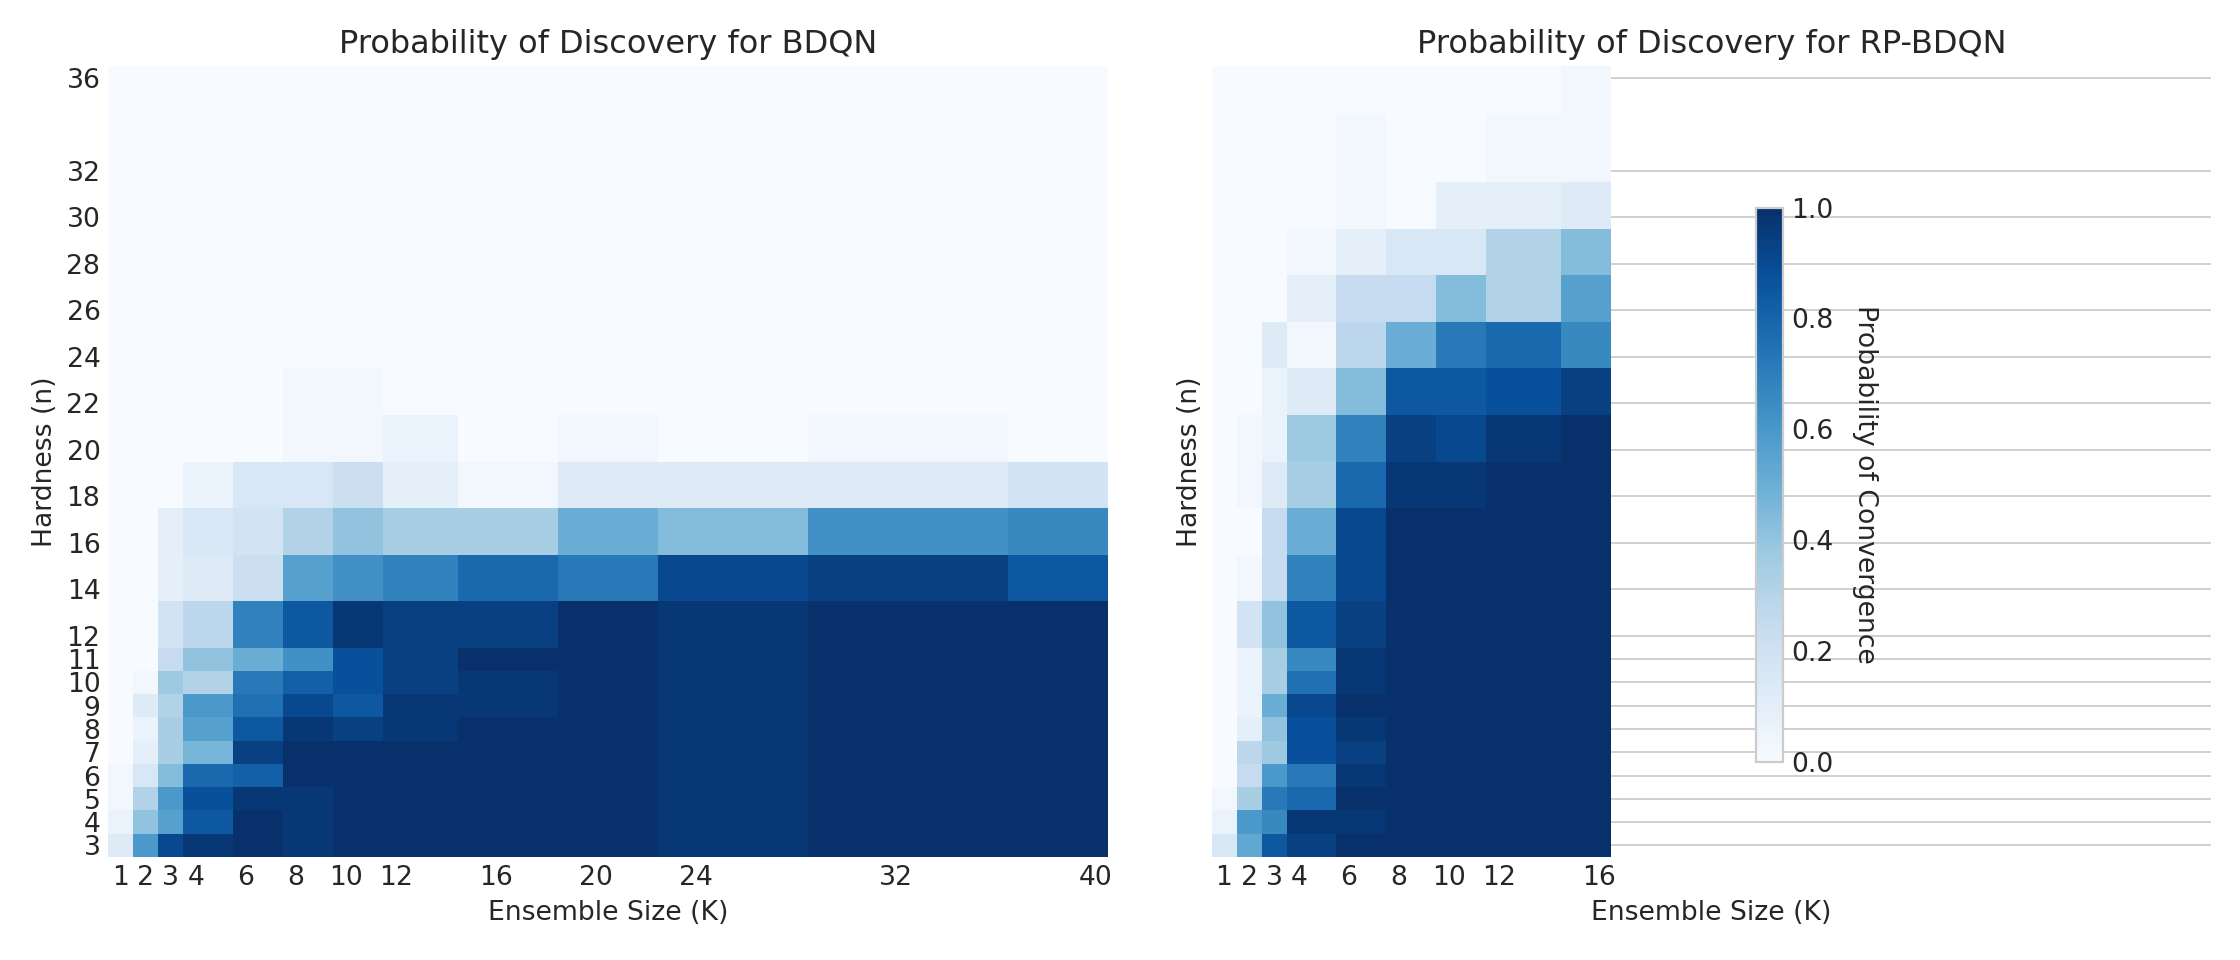
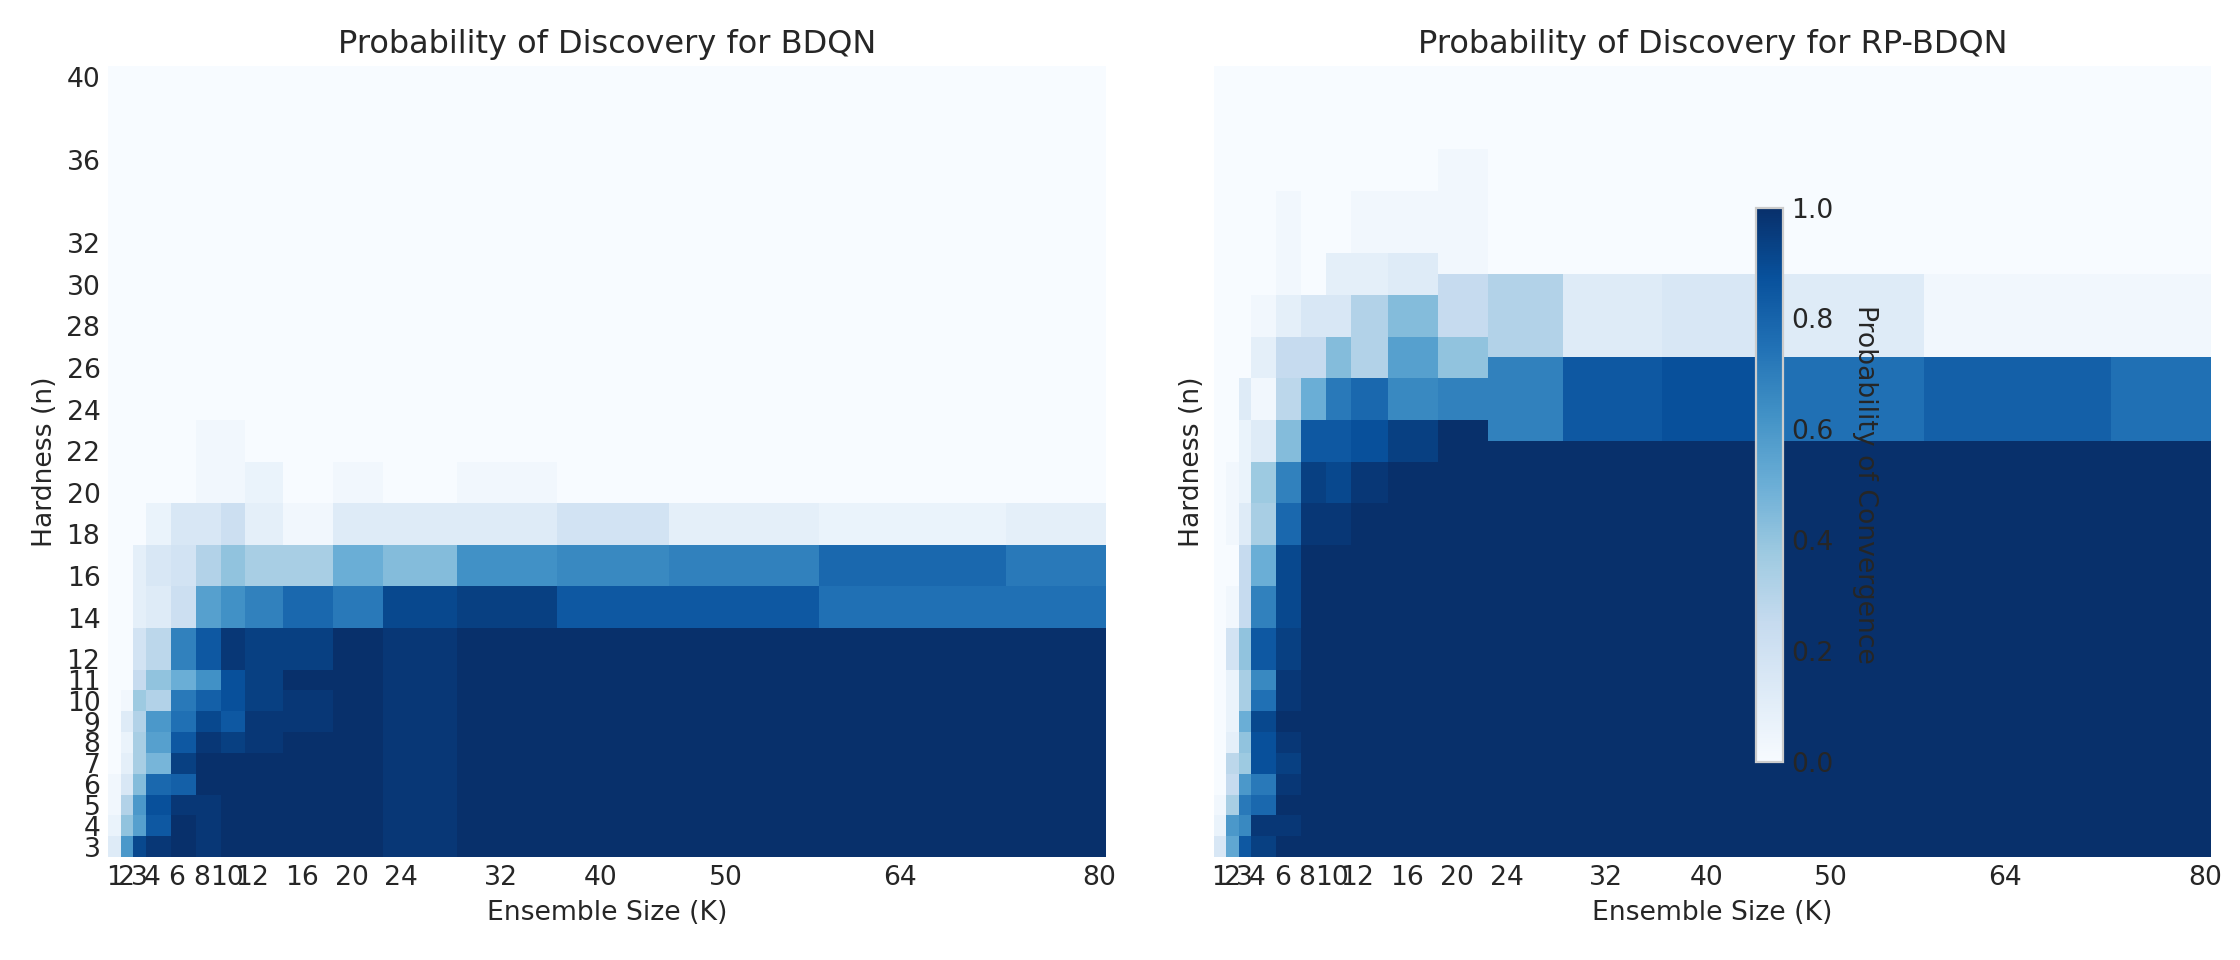
modify things

diff --git a/main.py b/main.py
@@ -408,10 +408,9 @@ def exp_heatmap():
     hardnesses = (
         list(range(3, 12, hardness_resolution))
         + list(range(12, 20, hardness_resolution * 2))
-        + list(range(20, 32, hardness_resolution * 4))
-        + list(range(32, 100, hardness_resolution * 8))
+        + list(range(32, 100, hardness_resolution * 4))
     )
-    ens_sizes = [1, 2, 3, 4, 6, 8, 10, 12, 16, 20, 24, 32, 40, 50, 64, 80]
+    ens_sizes = [1, 2, 3, 4, 6, 8, 10, 12, 16, 20, 24, 32, 40]
 
     all_specs = [(x, y) for x, y in itertools.product(ens_sizes, hardnesses)]
 
@@ -422,7 +421,7 @@ def exp_heatmap():
         for ensemble_size, hardness in tqdm(all_specs, position=1):
             if hardness == min(hardnesses):
                 skip_counter = 0
-            if skip_counter >= 1:
+            if skip_counter >= 3:
                 continue
             if hardness < last_full_hardness:
                 continue
@@ -458,7 +457,7 @@ def exp_sweep():
         + list(range(20, 32, hardness_resolution * 4))
         + list(range(32, 100, hardness_resolution * 8))
     )
-    ens_sizes = [1, 2, 4, 6, 10, 16, 24, 40]
+    ens_sizes = [1, 2, 3, 4, 6, 8, 10, 12, 16, 20, 24, 32, 40]
 
     all_specs = [(x, y) for x, y in itertools.product(ens_sizes, hardnesses)]
 
